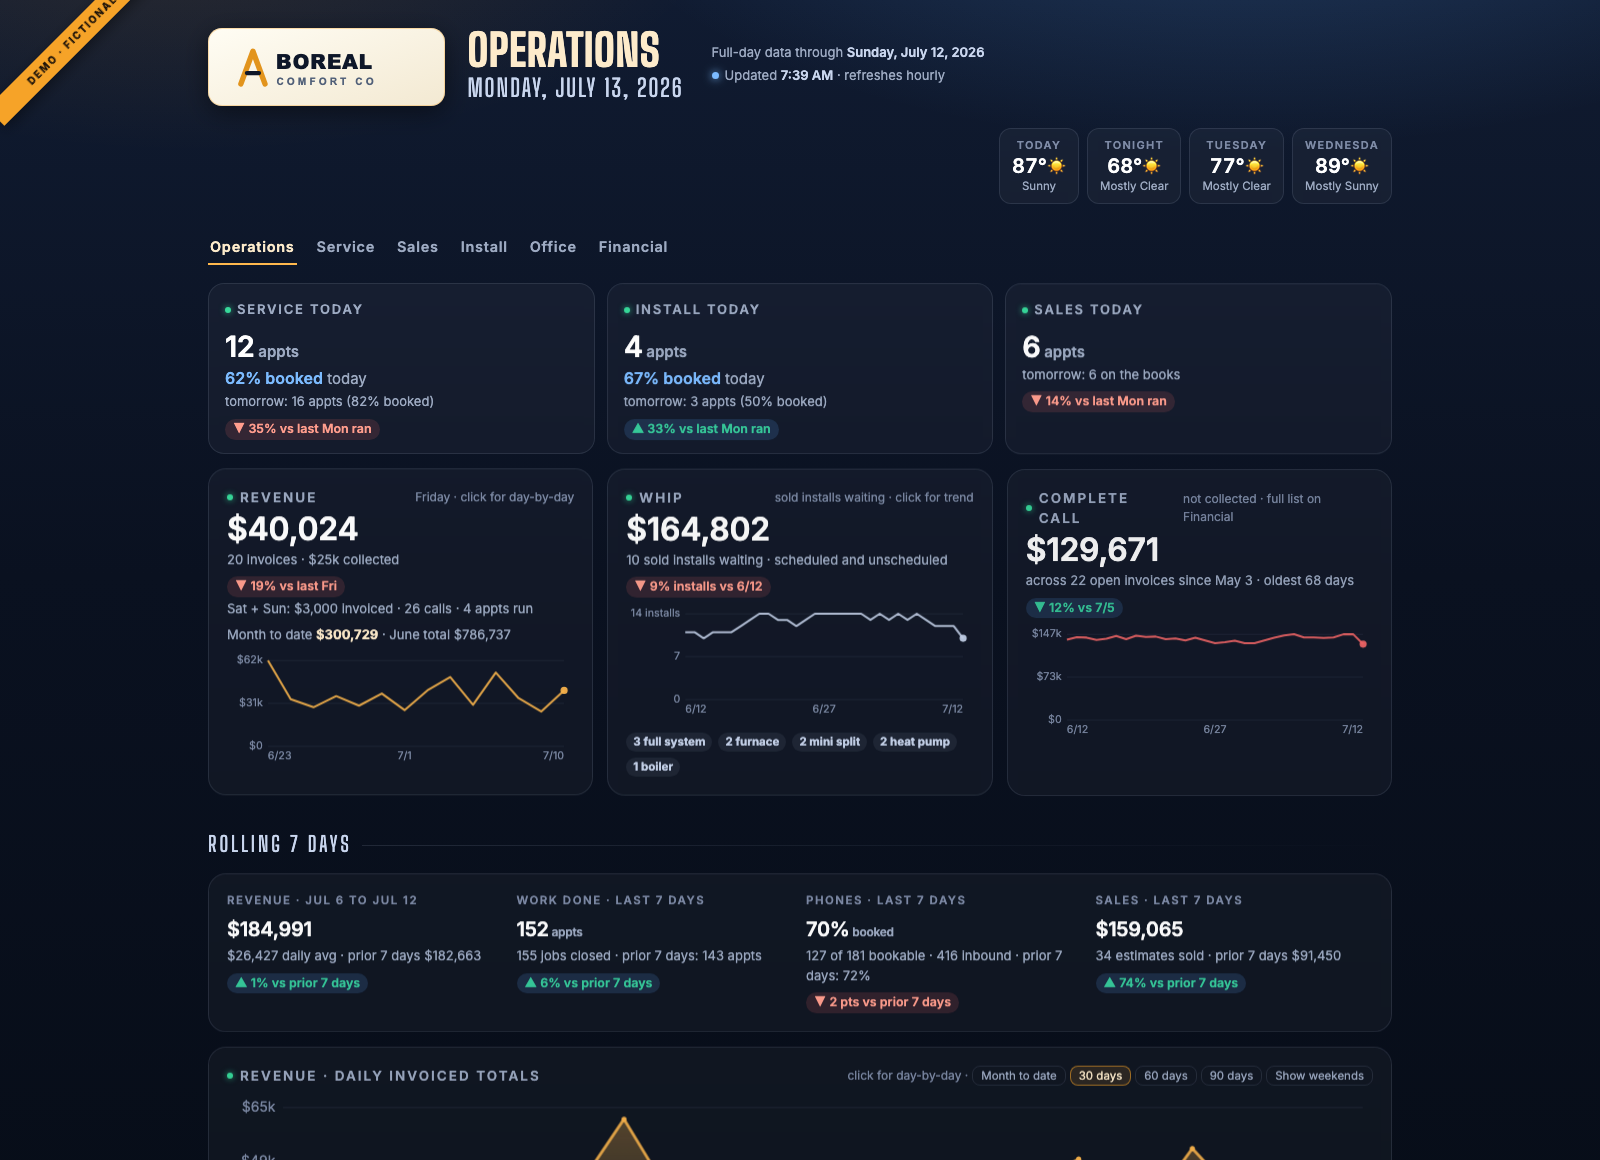
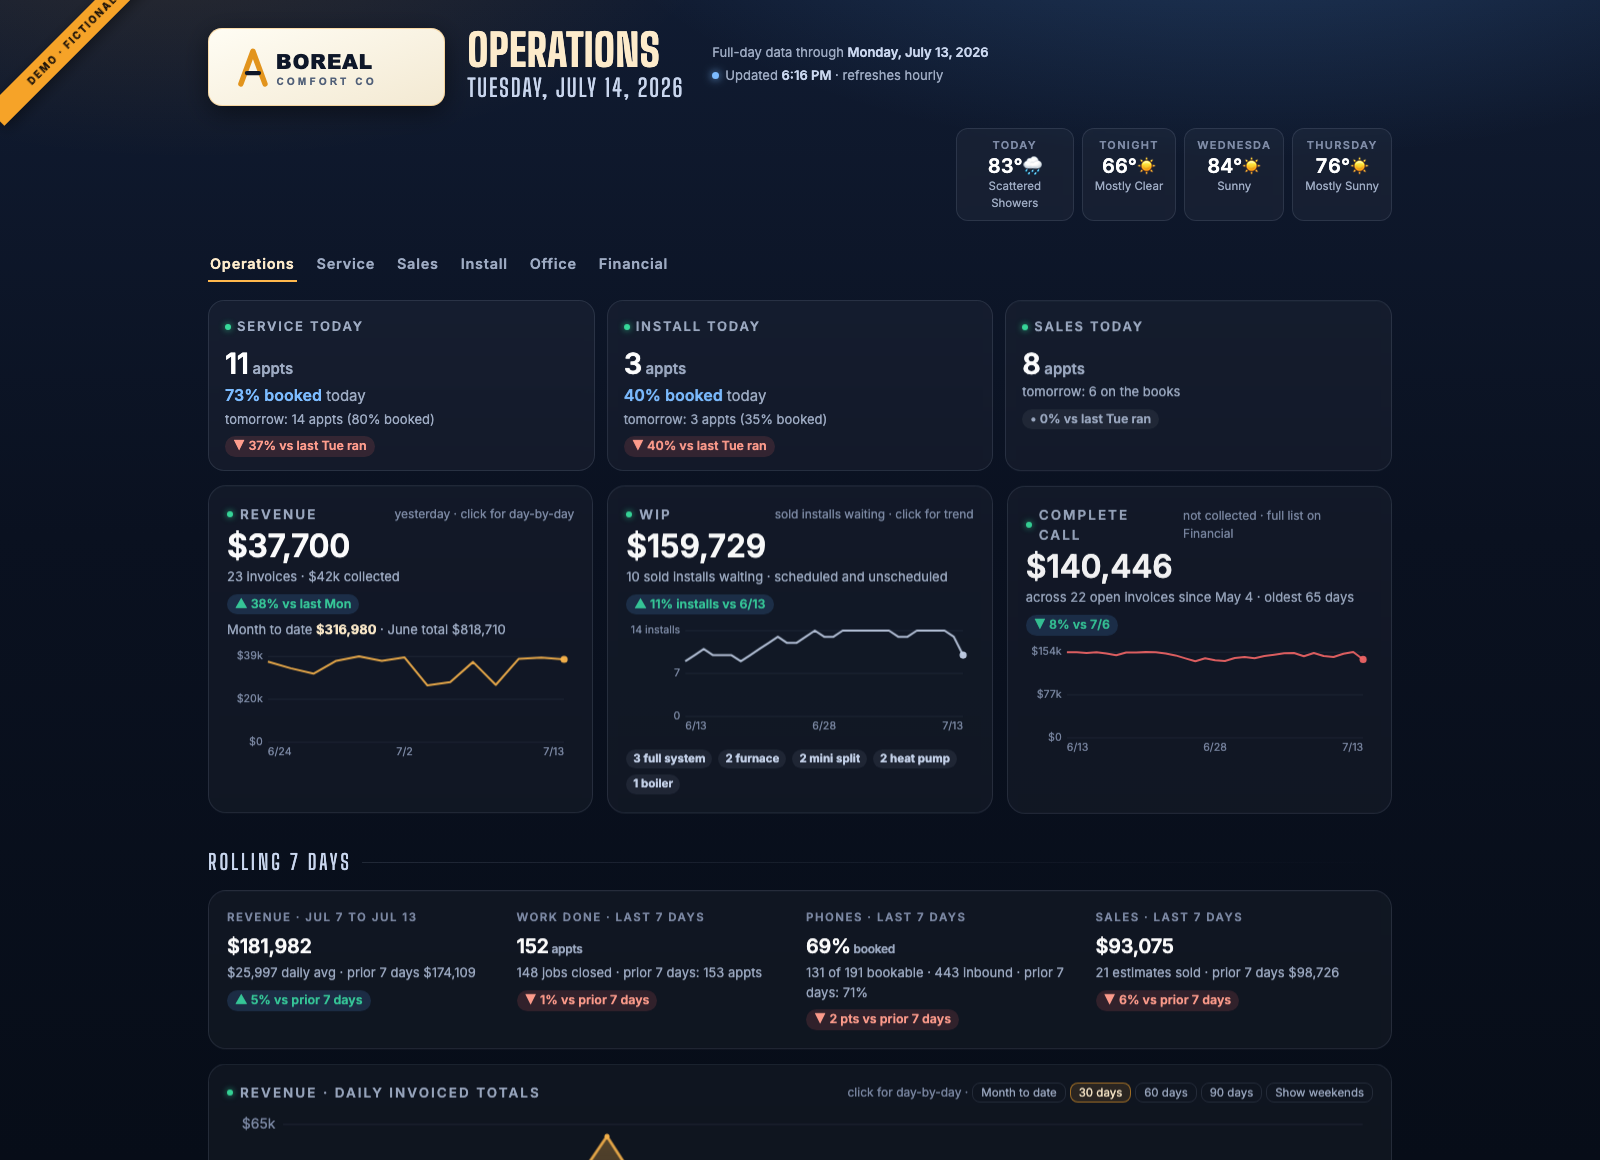
Rename WHIP to WIP on the owner dashboard and whiteboard demos
Matches the northstar-owner-dashboard rename: display text and internal
identifiers in both demo pages, plus the two marketing screenshots
(public/dashboards/teaser.png, whiteboard-teaser.png) re-shot to match.

Claude-Session: https://claude.ai/code/session_01T9WB197332xMoDGssJSTWn

diff --git a/public/demo/whiteboard.html b/public/demo/whiteboard.html
@@ -223,7 +223,7 @@
 <div class="wrap">
   <div class="chrome">
     <span class="hash">★</span> <span class="display" style="font-size:17px; letter-spacing:.03em; text-transform:uppercase;">Install White Board</span>
-    <span class="tab" id="whip-tab">$0 WHIP</span>
+    <span class="tab" id="wip-tab">$0 WIP</span>
     <span class="spacer"></span>
     <span class="live" id="live"><span class="dot"></span><span class="muted" id="stamp">loading…</span></span>
     <button class="themebtn" id="themebtn" title="Toggle dark mode">◐</button>
@@ -234,7 +234,7 @@
     <div class="summary">
       <div class="kpi accent"><span class="n" id="k-active">0</span><span class="l">Active jobs</span></div>
       <div class="kpi"><span class="n" id="k-done">0</span><span class="l">Complete</span></div>
-      <div class="kpi accent"><span class="n" id="k-whip">$0</span><span class="l">WHIP (uncollected $)</span></div>
+      <div class="kpi accent"><span class="n" id="k-wip">$0</span><span class="l">WIP (uncollected $)</span></div>
       <div class="kpi"><span class="n" id="k-stalled" style="color:var(--warn)">0</span><span class="l">Open 5d+ · no steps</span></div>
       <div class="bottlenecks">
         <span class="lead">Filter by what’s outstanding</span>
@@ -294,7 +294,7 @@
 
   <p class="note">
     Tap a pill to cycle it, tick a box, type a note. In this demo edits stay on this page and reset on reload; the real board saves for the whole crew, from any phone.
-    <b>WHIP</b> = active, uncollected dollars. Schedule, price and crew come from ServiceTitan, so change those there.
+    <b>WIP</b> = active, uncollected dollars. Schedule, price and crew come from ServiceTitan, so change those there.
   </p>
 </div>
 
@@ -420,7 +420,7 @@
         <td class="meta">${TYPE[r.type] || esc(r.type) || "-"}</td>
         <td class="meta">${esc(r.advisor) || "-"}</td>
         <td class="meta crew">${esc(r.installers) || "-"}</td>
-        <td class="meta price${paid ? " paid" : ""}" title="${paid ? "collected, out of WHIP" : ""}">${fmtMoney(r.price)}</td>
+        <td class="meta price${paid ? " paid" : ""}" title="${paid ? "collected, out of WIP" : ""}">${fmtMoney(r.price)}</td>
         <td class="st">${pill(r, "tls")}</td>
         <td class="st">${pill(r, "permit")}</td>
         <td class="st">${pill(r, "rebate")}</td>
@@ -437,10 +437,10 @@
     const rows = board.rows || [];
     $("k-active").textContent = rows.filter((r) => !r.done).length;
     $("k-done").textContent = rows.filter((r) => r.done).length;
-    // Bryan's rule: collected payments leave the WHIP
-    const whip = rows.reduce((s, r) => s + (!r.done && r.payment !== "done" ? r.price || 0 : 0), 0);
-    $("k-whip").textContent = fmtMoney(whip);
-    $("whip-tab").textContent = `${fmtMoney(whip)} WHIP`;
+    // Bryan's rule: collected payments leave the WIP
+    const wip = rows.reduce((s, r) => s + (!r.done && r.payment !== "done" ? r.price || 0 : 0), 0);
+    $("k-wip").textContent = fmtMoney(wip);
+    $("wip-tab").textContent = `${fmtMoney(wip)} WIP`;
     $("k-stalled").textContent = rows.filter(stalled).length;
     for (const k of ["permit", "inspection", "registered", "payment"])
       $("c-" + k).textContent = rows.filter((r) => needs(r, k)).length;

diff --git a/demo/make-demo-data.js b/demo/make-demo-data.js
@@ -125,8 +125,8 @@ const unsoldEst = { value: bests.reduce((s, e) => s + e.value, 0), groups: bests
 const topOpenEst = bests.sort((a, b) => b.value - a.value).slice(0, 10)
   .map(e => ({ customer: customer(), value: e.value, created: e.created, advisor: e.soldBy }));
 
-/* ---------- WHIP ---------- */
-const whip = {
+/* ---------- WIP ---------- */
+const wip = {
   now: 10, soldValue: ri(148, 172) * 1000,
   byType: { full_system: 3, furnace: 2, mini_split: 2, heat_pump: 2, boiler: 1 },
   statuses: { Scheduled: 8, Dispatched: 2 },
@@ -303,7 +303,7 @@ const raw = {
   footNote: 'Demonstration dashboard for Boreal Comfort Co, a fictional company: every number, name, and note on this page is synthetic. In production the dashboard refreshes hourly from your ServiceTitan account, and red flags and wins are triaged nightly by AI from your crew\'s Slack channels.',
   days, upcoming, estList: estList.map(({ install, ...e }) => e), topOpenEst,
   poWindow: { Pending: 18, Canceled: 45, Received: 560, Sent: 8 },
-  whip, unsoldEst,
+  wip, unsoldEst,
   incomplete: [
     { id: jobId(), summary: 'Waiting on heat pump lineset from supplier', age: 12 },
     { id: jobId(), summary: 'Return trip scheduled to finish venting', age: 5 },
@@ -316,16 +316,16 @@ const raw = {
 fs.writeFileSync(path.join(DATA, 'raw.json'), JSON.stringify(raw));
 
 /* ---------- history.json: random-walk balance snapshots ---------- */
-const hist = { whip: {}, unpaid: {}, ar: {}, members: {}, unsold: {} };
-let hWhip = 8, hUnpaid = unpaid.totalBalance * .9, hAr = 102000, hMem = memberList.length - 22, hUnsold = unsoldEst.value * .92;
+const hist = { wip: {}, unpaid: {}, ar: {}, members: {}, unsold: {} };
+let hWip = 8, hUnpaid = unpaid.totalBalance * .9, hAr = 102000, hMem = memberList.length - 22, hUnsold = unsoldEst.value * .92;
 for (let i = 60; i >= 0; i--) {
   const d = addDays(R, -i);
-  hWhip = Math.max(4, Math.min(14, hWhip + ri(-1, 1)));
+  hWip = Math.max(4, Math.min(14, hWip + ri(-1, 1)));
   hUnpaid = Math.max(60000, hUnpaid + ri(-6000, 6500));
   hAr = Math.max(70000, hAr + ri(-3000, 3200));
   hMem += rnd() < .35 ? 1 : 0;
   hUnsold = Math.max(500000, hUnsold + ri(-15000, 16000));
-  hist.whip[d] = i === 0 ? whip.now : hWhip;
+  hist.wip[d] = i === 0 ? wip.now : hWip;
   hist.unpaid[d] = i === 0 ? unpaid.totalBalance : Math.round(hUnpaid);
   hist.ar[d] = Math.round(hAr);
   hist.members[d] = i === 0 ? memberList.length : hMem;